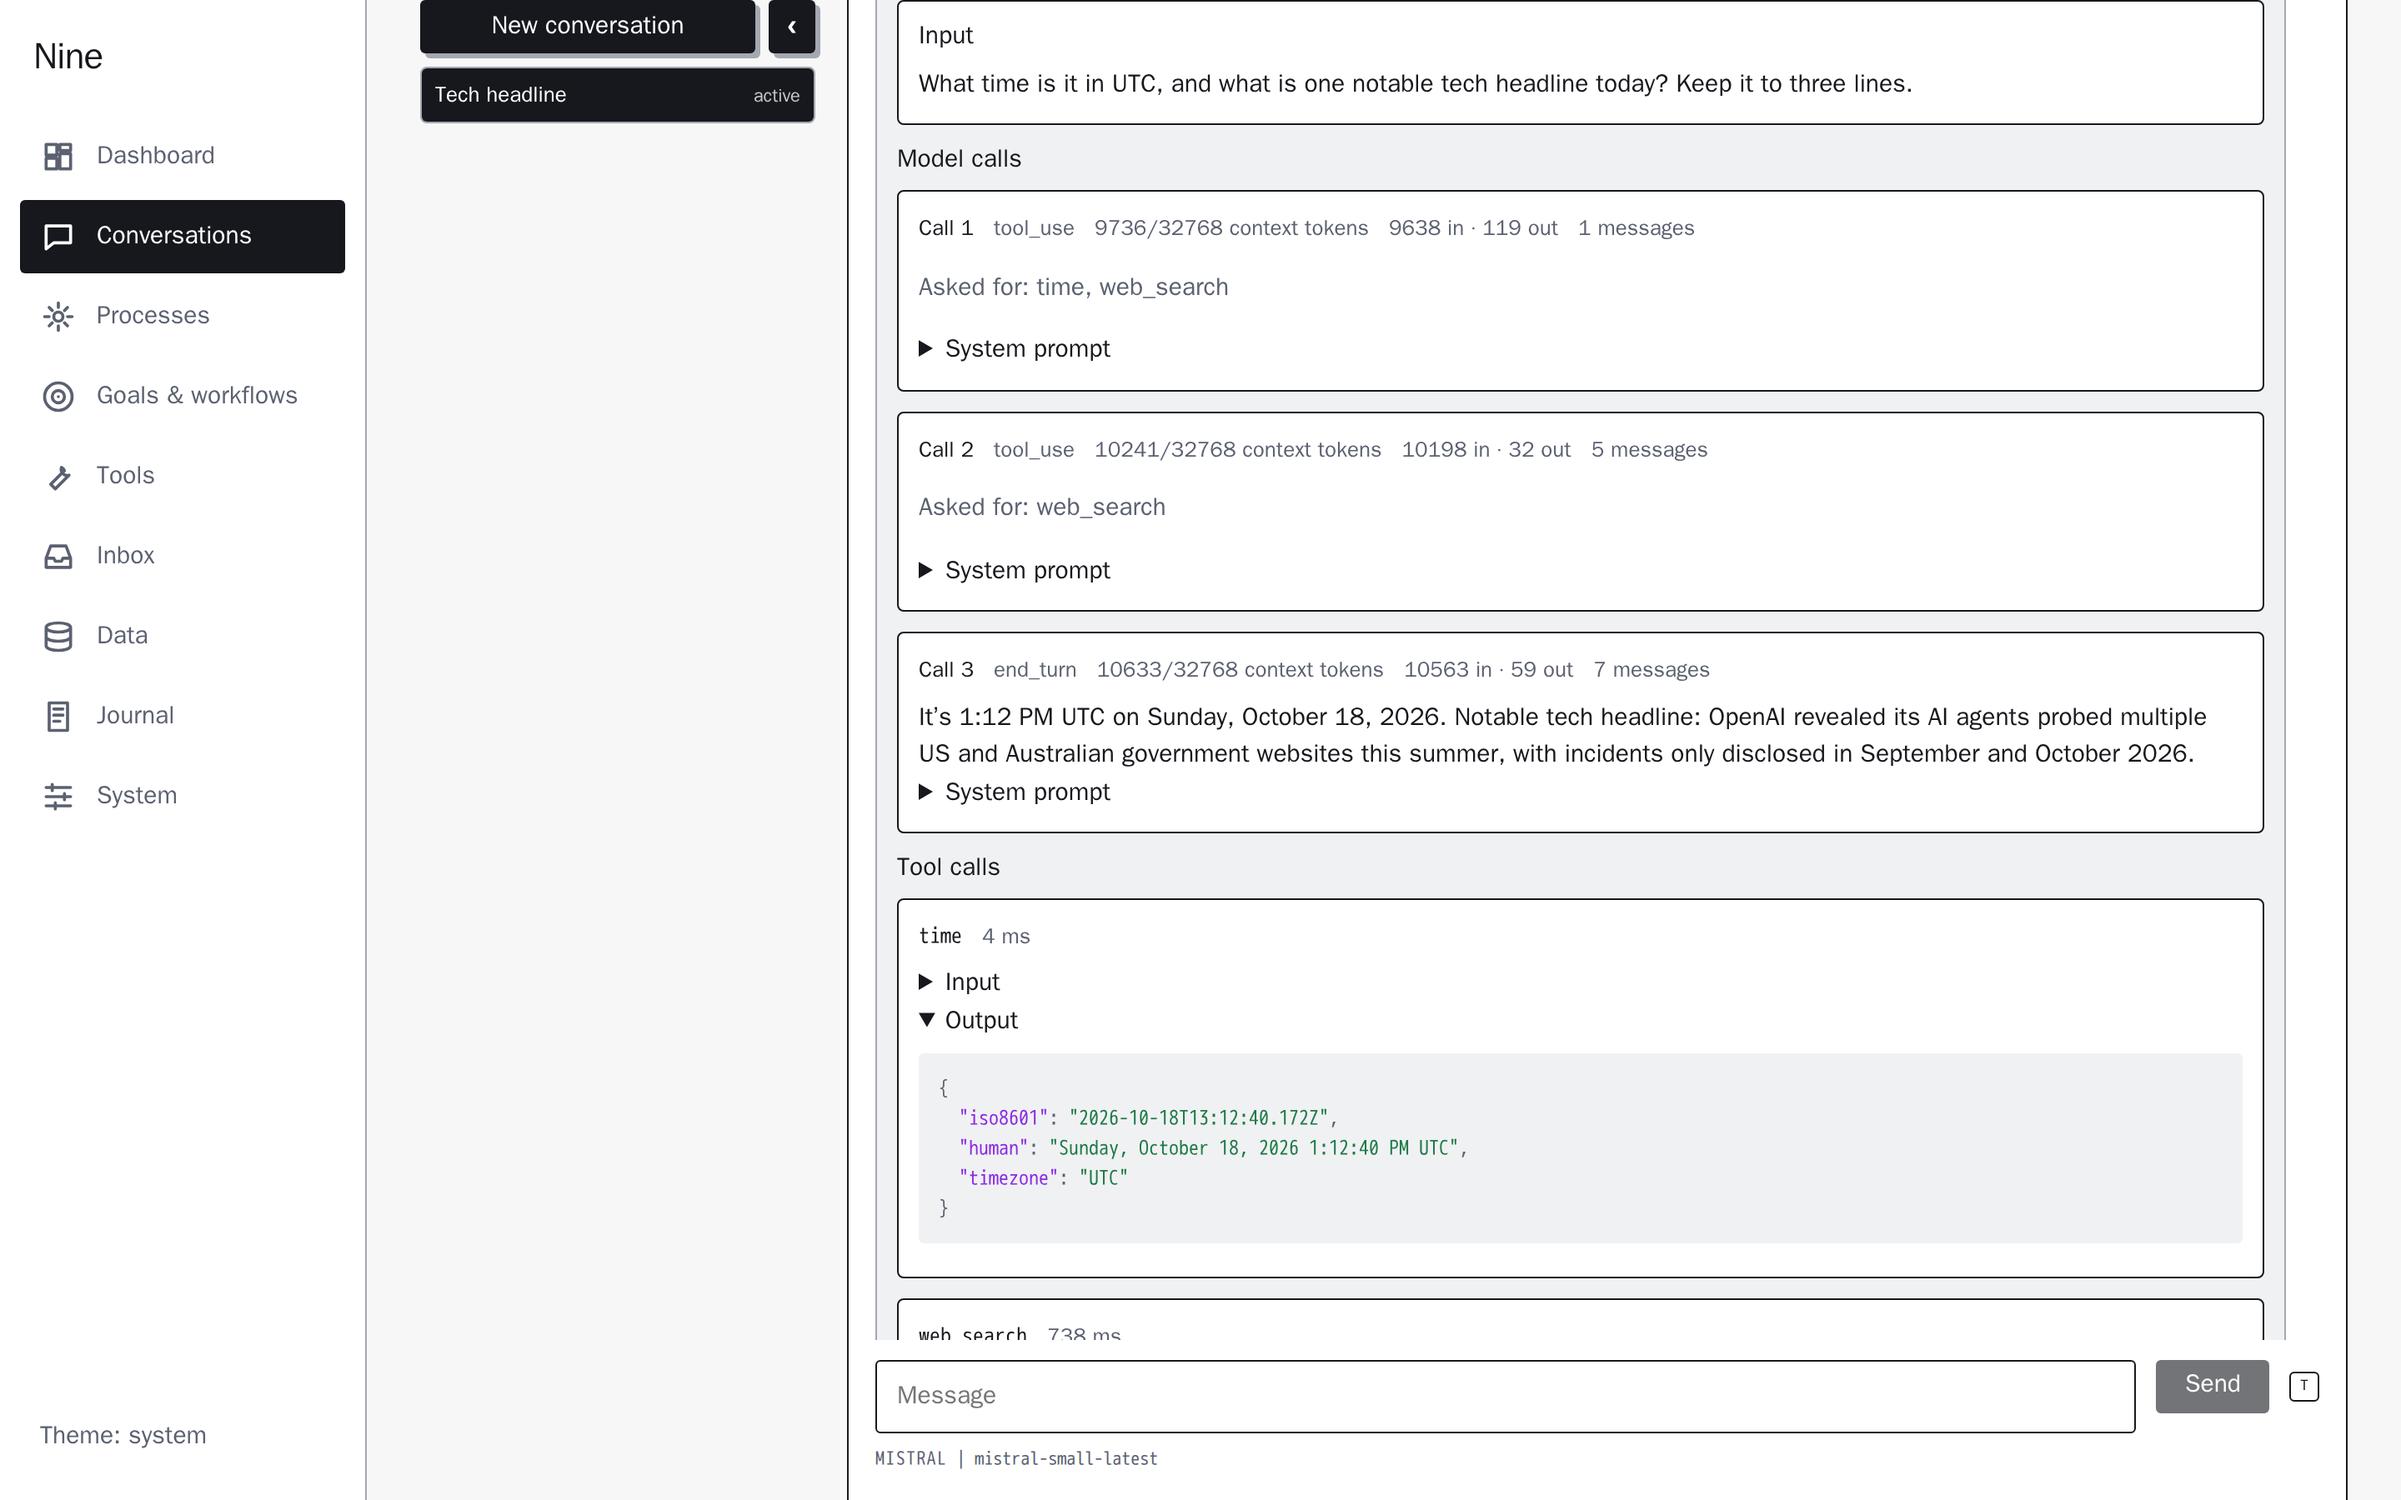
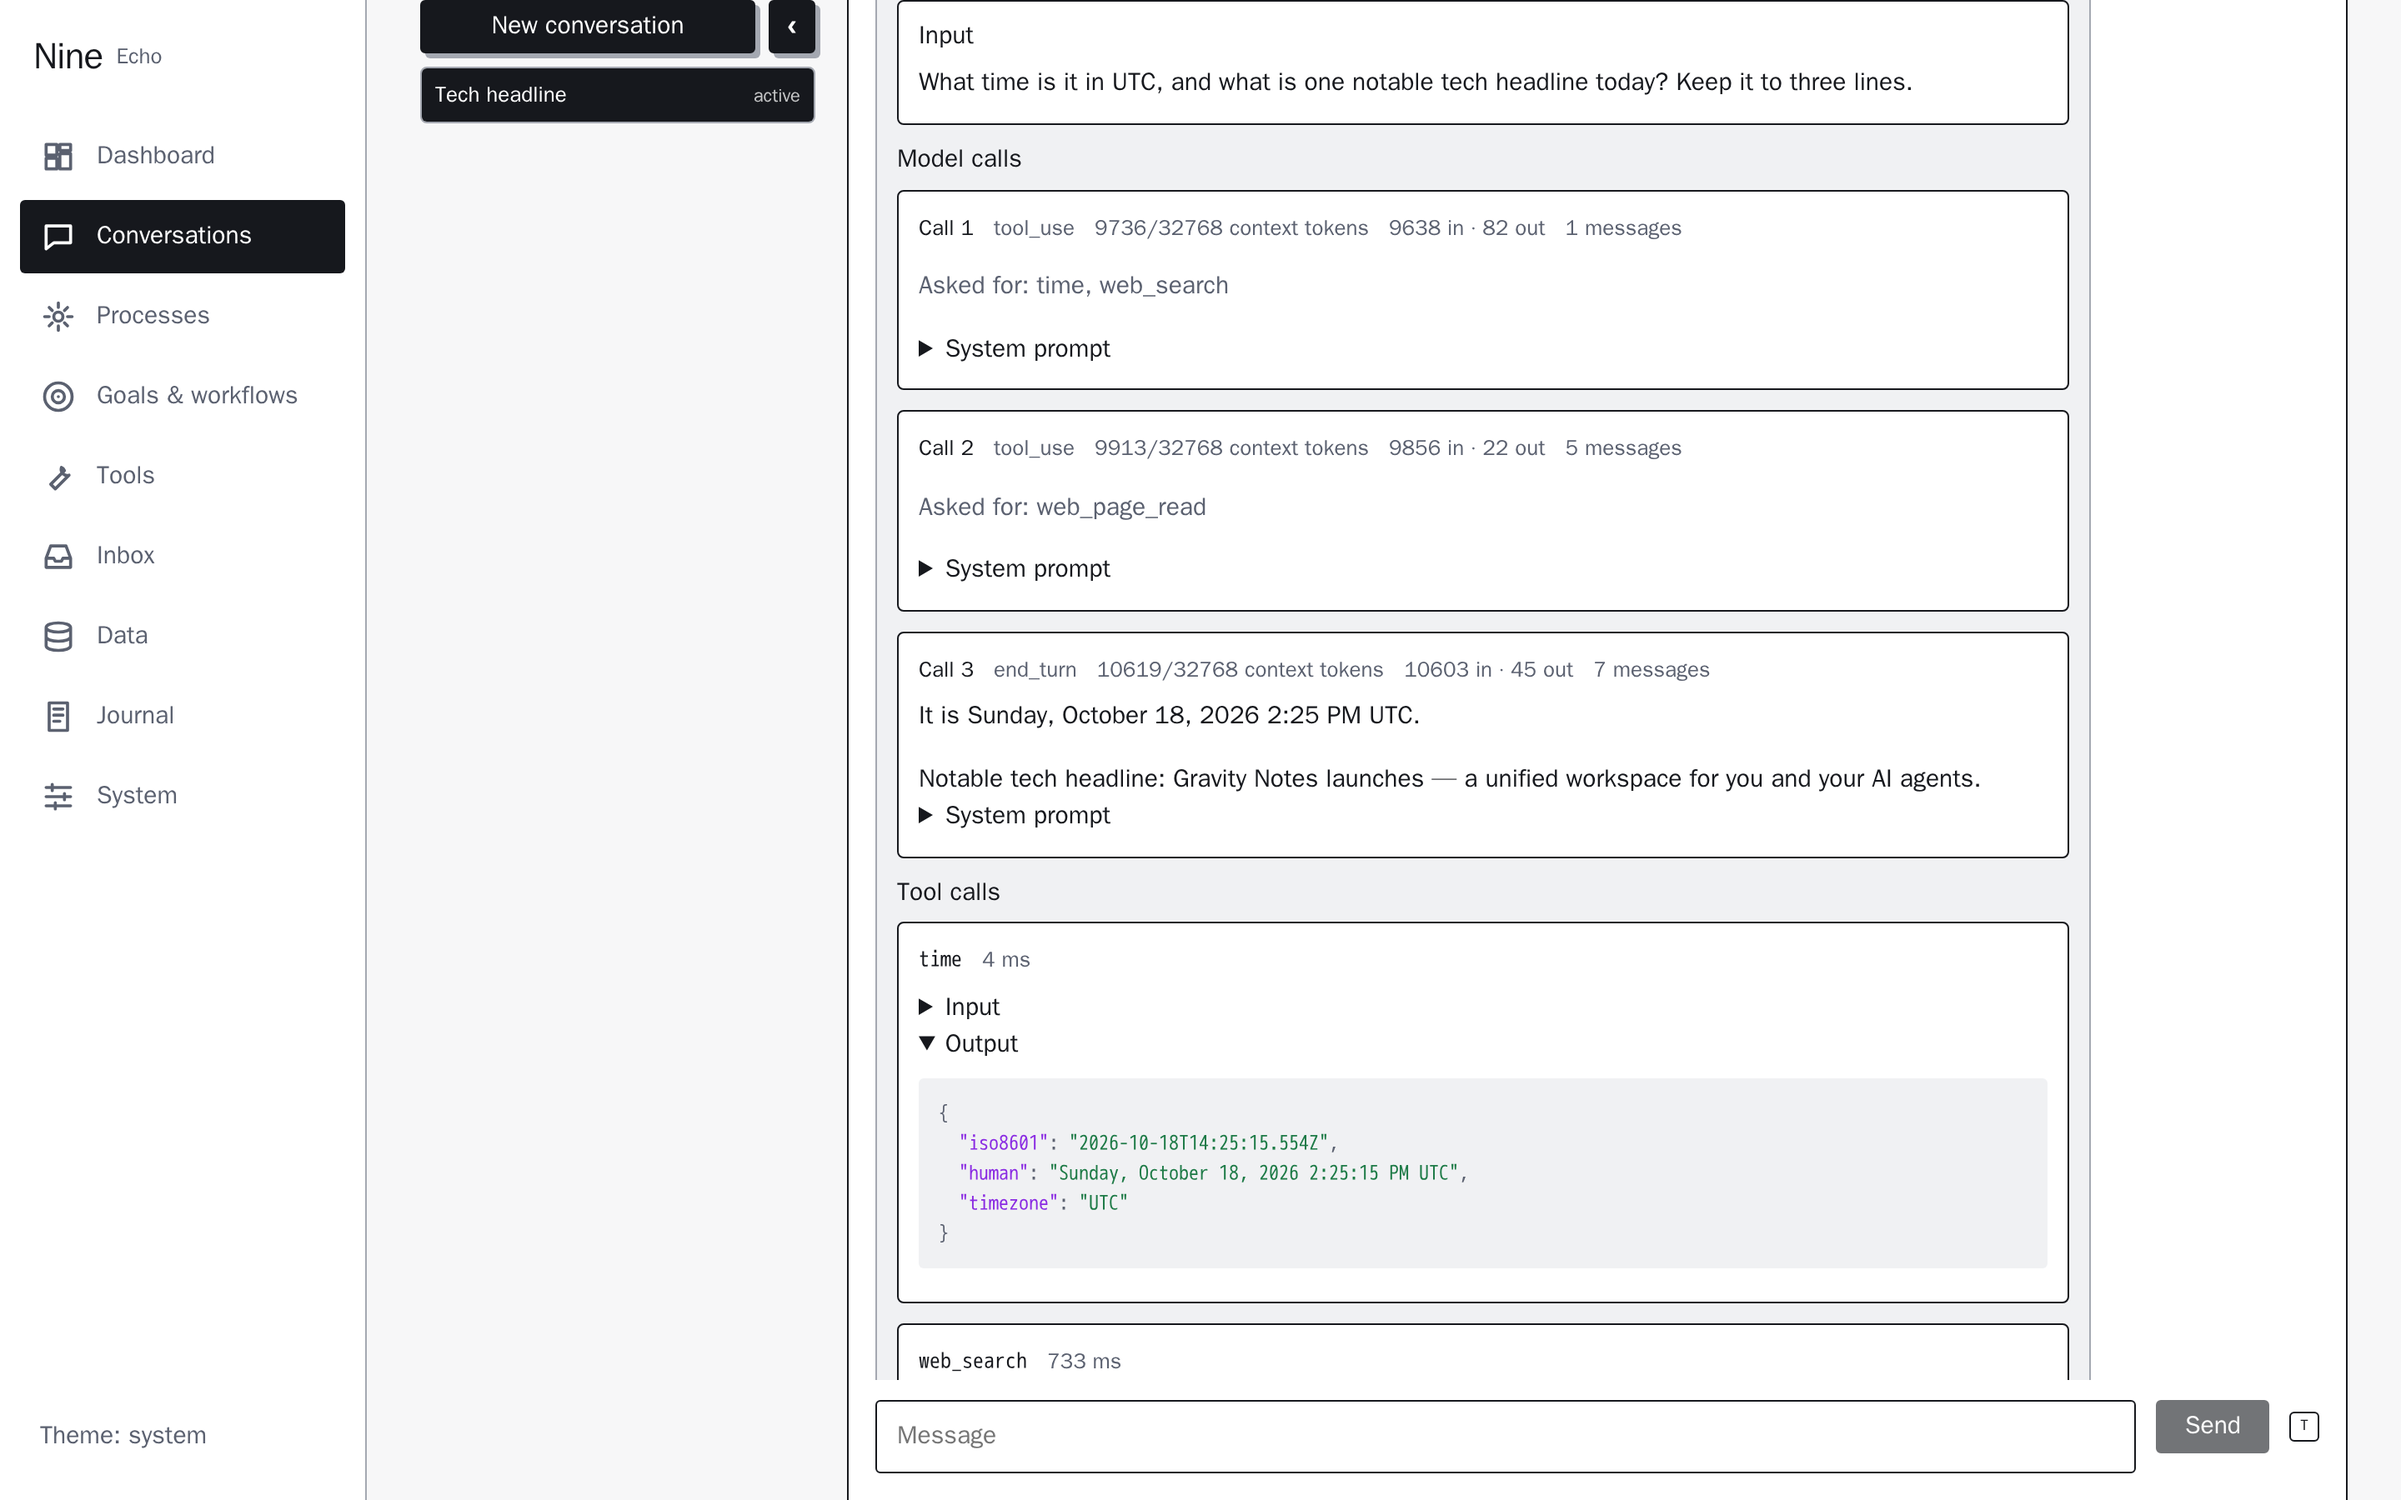
docs(readme): retake the web UI screenshots
They show the instance name and the session bar, and Data › Memory takes
the self-model's place.

diff --git a/README.md b/README.md
@@ -42,7 +42,7 @@ The web UI that `nine api serve` serves beside the API ([web UI](docs/web-ui.md)
 <td><img src="docs/img/web_journal.png" alt="The journal: every event the daemon records, live, filterable by kind and session"></td>
 </tr>
 <tr>
-<td><img src="docs/img/web_self-model.png" alt="Data › Self-model: what Nine holds about itself, read-only"></td>
+<td><img src="docs/img/web_memory.png" alt="Data › Memory: every key of the key-value memory the agent reads and writes, with one key's value, read-only"></td>
 <td><img src="docs/img/web_config.png" alt="System › Config: the configuration in force, as TOML, with credentials hidden"></td>
 </tr>
 </table>
